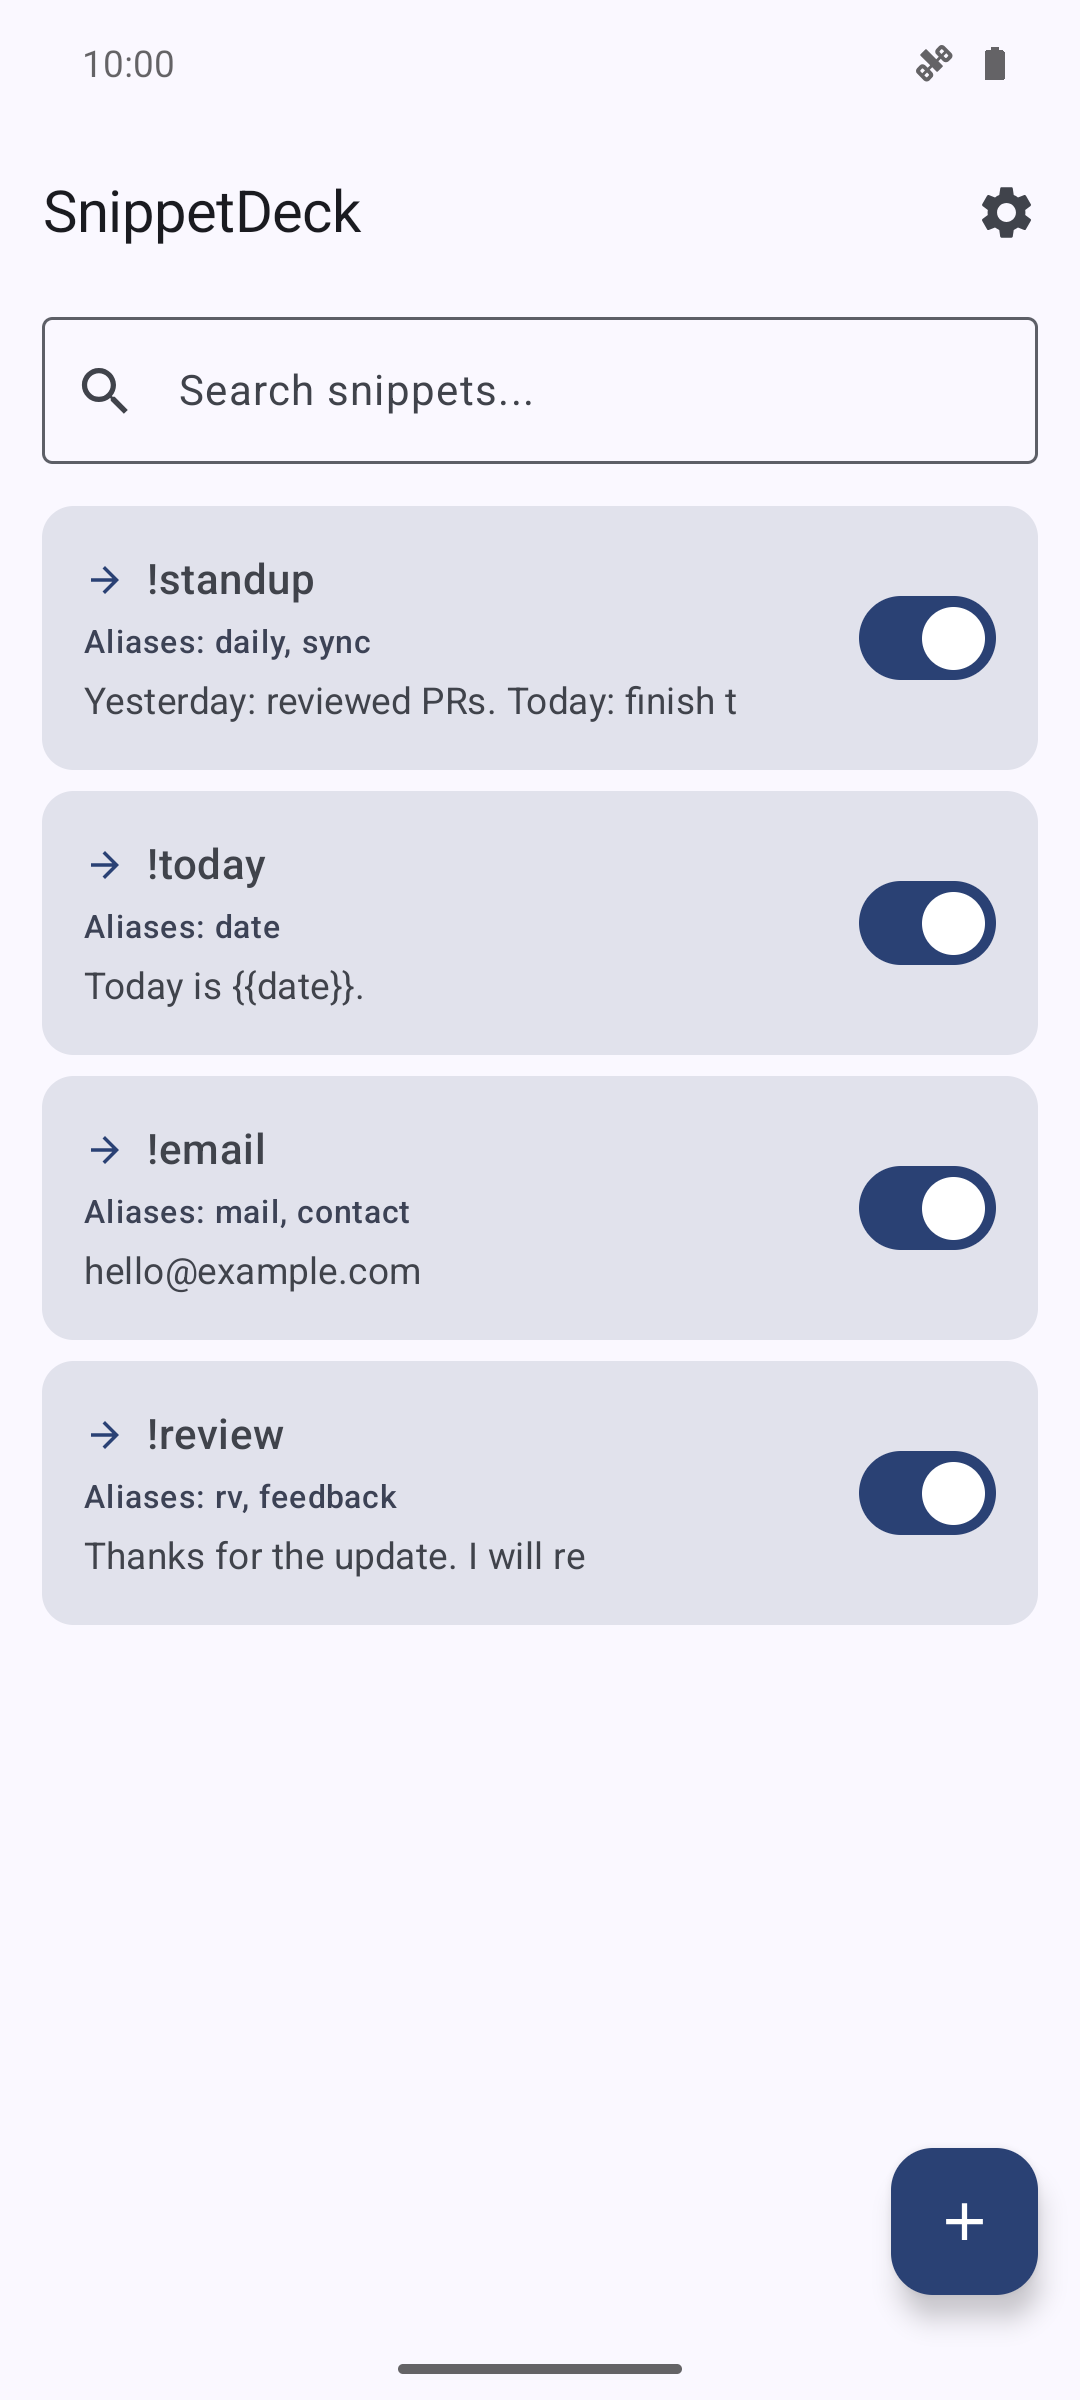
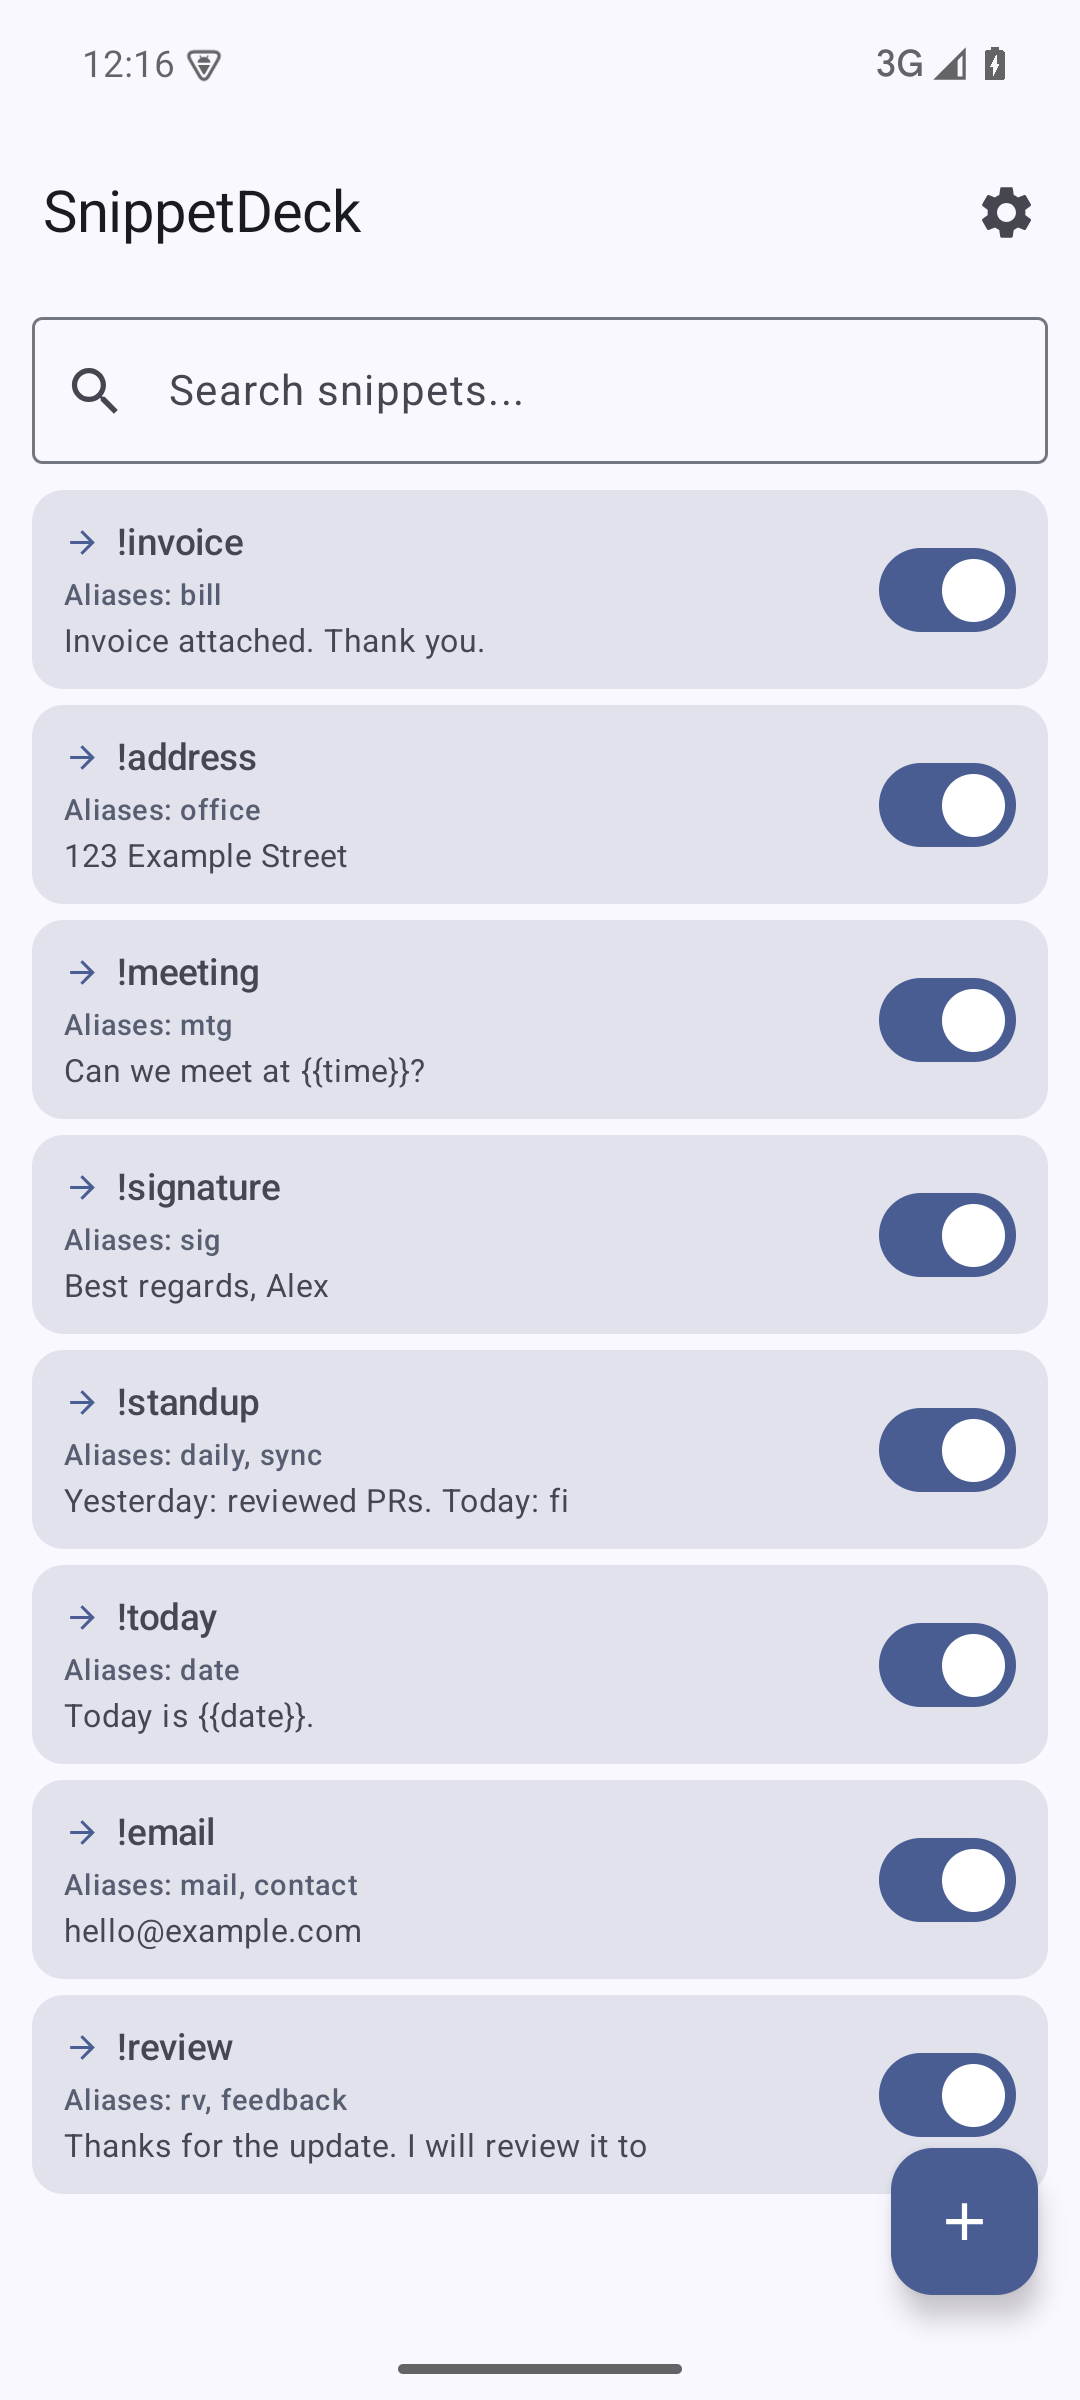
Compact the snippet library layout

diff --git a/app/src/main/java/com/rrajath/expander/ui/screens/SnippetListScreen.kt b/app/src/main/java/com/rrajath/expander/ui/screens/SnippetListScreen.kt
@@ -77,7 +77,7 @@ fun SnippetListScreen(
             modifier = modifier
                 .fillMaxSize()
                 .padding(paddingValues)
-                .padding(horizontal = 16.dp)
+                .padding(horizontal = 12.dp)
         ) {
             Spacer(modifier = Modifier.height(8.dp))
 
@@ -134,7 +134,7 @@ fun SnippetListScreen(
                 onQueryChange = onSearchQueryChange
             )
 
-            Spacer(modifier = Modifier.height(16.dp))
+            Spacer(modifier = Modifier.height(10.dp))
 
             if (snippets.isEmpty()) {
                 EmptyState(
@@ -155,7 +155,7 @@ fun SnippetListScreen(
             } else {
                 LazyColumn(
                     modifier = Modifier.fillMaxSize(),
-                    verticalArrangement = Arrangement.spacedBy(8.dp)
+                    verticalArrangement = Arrangement.spacedBy(6.dp)
                 ) {
                     items(
                         items = snippets,
@@ -171,7 +171,7 @@ fun SnippetListScreen(
 
                     // Bottom spacing for FAB
                     item {
-                        Spacer(modifier = Modifier.height(80.dp))
+                        Spacer(modifier = Modifier.height(72.dp))
                     }
                 }
             }
@@ -231,7 +231,7 @@ fun SnippetItem(
         Row(
             modifier = Modifier
                 .fillMaxWidth()
-                .padding(16.dp),
+                .padding(horizontal = 12.dp, vertical = 10.dp),
             verticalAlignment = Alignment.CenterVertically
         ) {
             Column(
@@ -243,13 +243,15 @@ fun SnippetItem(
                     Icon(
                         imageVector = Icons.AutoMirrored.Filled.ArrowForward,
                         contentDescription = null,
-                        modifier = Modifier.size(16.dp),
+                        modifier = Modifier.size(14.dp),
                         tint = MaterialTheme.colorScheme.primary
                     )
-                    Spacer(modifier = Modifier.width(8.dp))
+                    Spacer(modifier = Modifier.width(6.dp))
                     Text(
                         text = snippet.trigger,
-                        style = MaterialTheme.typography.titleMedium,
+                        style = MaterialTheme.typography.titleSmall,
+                        maxLines = 1,
+                        overflow = TextOverflow.Ellipsis,
                         color = if (snippet.isEnabled) {
                             MaterialTheme.colorScheme.onSurfaceVariant
                         } else {
@@ -258,23 +260,23 @@ fun SnippetItem(
                     )
                 }
 
-                Spacer(modifier = Modifier.height(4.dp))
+                Spacer(modifier = Modifier.height(2.dp))
 
                 if (snippet.aliases.isNotEmpty()) {
                     Text(
                         text = "Aliases: ${snippet.aliases.joinToString()}",
-                        style = MaterialTheme.typography.labelMedium,
+                        style = MaterialTheme.typography.labelSmall,
                         color = MaterialTheme.colorScheme.secondary,
-                        maxLines = 2,
+                        maxLines = 1,
                         overflow = TextOverflow.Ellipsis
                     )
-                    Spacer(modifier = Modifier.height(4.dp))
+                    Spacer(modifier = Modifier.height(2.dp))
                 }
 
                 Text(
                     text = snippet.expansion,
-                    style = MaterialTheme.typography.bodyMedium,
-                    maxLines = 2,
+                    style = MaterialTheme.typography.bodySmall,
+                    maxLines = 1,
                     overflow = TextOverflow.Ellipsis,
                     color = if (snippet.isEnabled) {
                         MaterialTheme.colorScheme.onSurfaceVariant
@@ -284,7 +286,7 @@ fun SnippetItem(
                 )
             }
 
-            Spacer(modifier = Modifier.width(8.dp))
+            Spacer(modifier = Modifier.width(6.dp))
 
             Switch(
                 checked = snippet.isEnabled,

diff --git a/app/src/androidTest/java/com/rrajath/expander/ui/screens/SnippetItemLayoutTest.kt b/app/src/androidTest/java/com/rrajath/expander/ui/screens/SnippetItemLayoutTest.kt
@@ -1,0 +1,51 @@
+package com.rrajath.expander.ui.screens
+
+import androidx.compose.ui.Modifier
+import androidx.compose.ui.platform.testTag
+import androidx.compose.ui.test.junit4.v2.createComposeRule
+import androidx.compose.ui.test.onNodeWithTag
+import androidx.test.ext.junit.runners.AndroidJUnit4
+import androidx.test.platform.app.InstrumentationRegistry
+import com.rrajath.expander.data.Snippet
+import com.rrajath.expander.ui.theme.SnippetDeckTheme
+import org.junit.Assert.assertTrue
+import org.junit.Rule
+import org.junit.Test
+import org.junit.runner.RunWith
+
+@RunWith(AndroidJUnit4::class)
+class SnippetItemLayoutTest {
+    @get:Rule
+    val composeTestRule = createComposeRule()
+
+    @Test
+    fun snippetWithAliasesUsesCompactCardHeight() {
+        composeTestRule.setContent {
+            SnippetDeckTheme {
+                SnippetItem(
+                    snippet = Snippet(
+                        trigger = "!review",
+                        aliases = listOf("feedback", "rv"),
+                        expansion = "Thanks for the update. I will review it today.",
+                    ),
+                    onClick = {},
+                    onDelete = {},
+                    onToggle = {},
+                    modifier = Modifier.testTag("snippet-card"),
+                )
+            }
+        }
+
+        val heightPx = composeTestRule.onNodeWithTag("snippet-card")
+            .fetchSemanticsNode()
+            .boundsInRoot
+            .height
+        val density = InstrumentationRegistry.getInstrumentation()
+            .targetContext
+            .resources
+            .displayMetrics
+            .density
+
+        assertTrue("Card height was $heightPx px", heightPx <= 96f * density)
+    }
+}

diff --git a/README.md b/README.md
@@ -50,7 +50,7 @@ Create a snippet  →  type !today + Space  →  SnippetDeck inserts the expansi
 - Immediate Backspace undo after an expansion.
 - Dynamic `!help` generated from enabled snippets.
 - Date and time placeholders such as `{{date}}`, `{{time}}`, `{{year_short}}`, and `{{week_num}}`.
-- Enabled and disabled snippets, search, and light, dark, or system themes.
+- A compact, searchable snippet library with enabled state and light, dark, or system themes.
 - Portable JSON files and compact text backups for moving a library between devices.
 - Fully local snippet storage with no account, backend, analytics, advertising, or data sync.
 - Quiet GitHub release checks and verified in-app APK updates.
